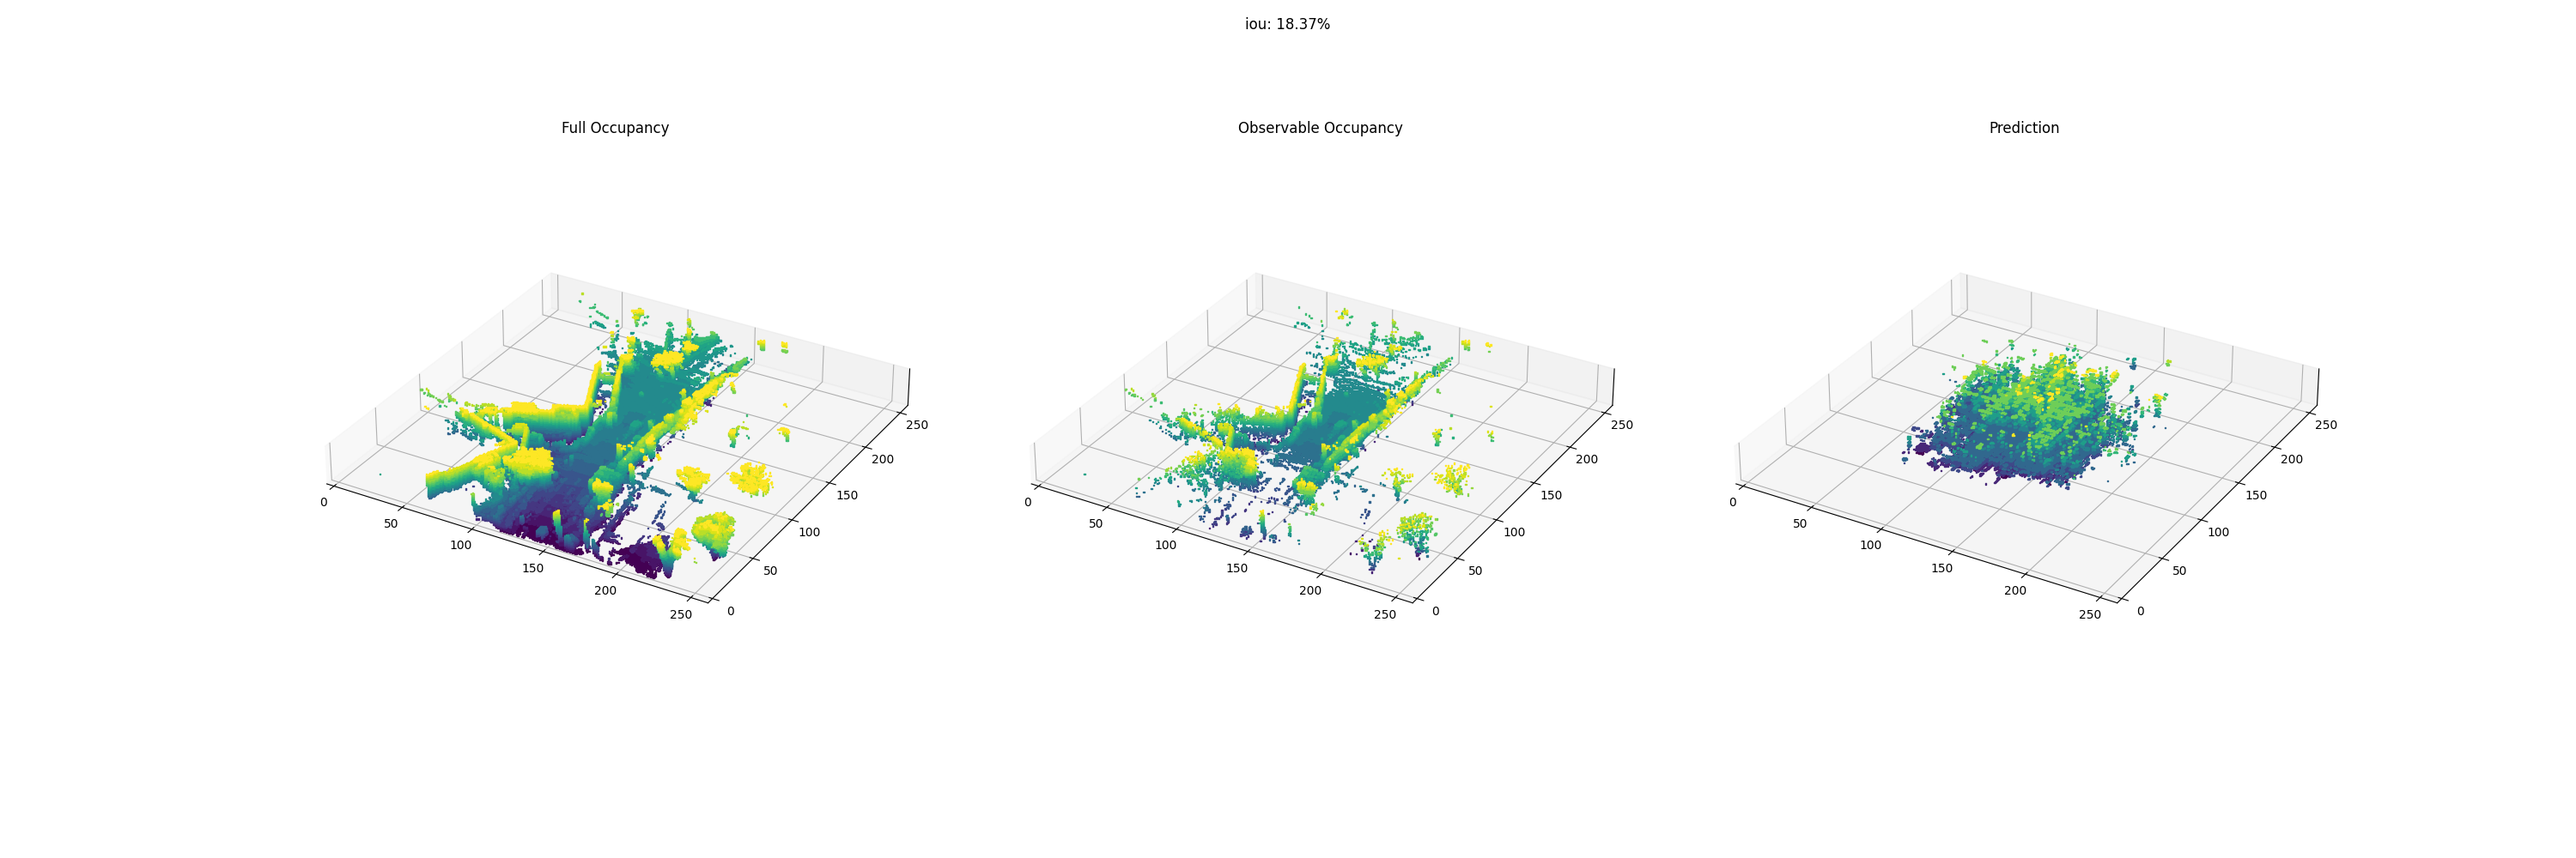
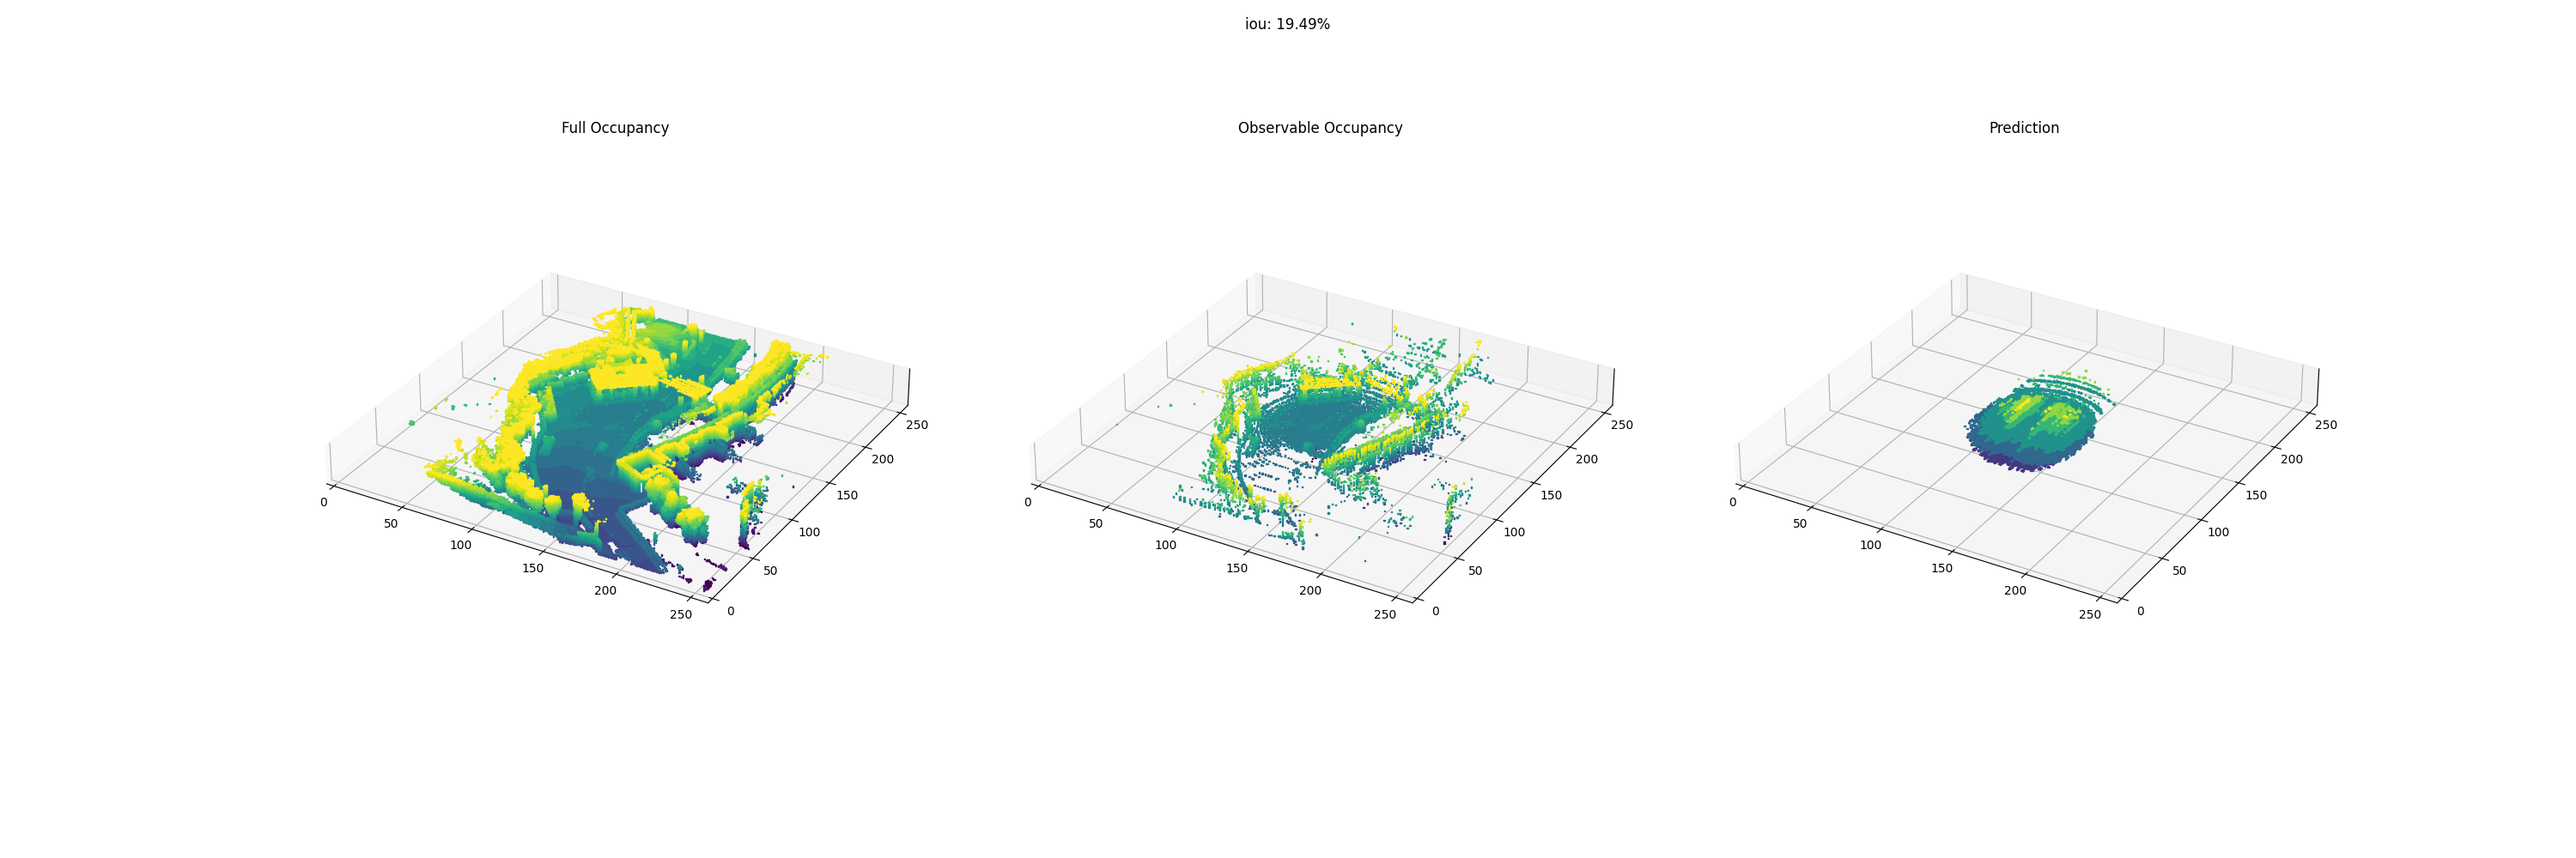
update

Changed region(s): [[0.155, 0.341, 0.341, 0.682], [0.434, 0.372, 0.589, 0.651], [0.744, 0.403, 0.837, 0.589]]

diff --git a/occupancy/pipelines/panoramic2voxel.py b/occupancy/pipelines/panoramic2voxel.py
@@ -339,11 +339,11 @@ class MultiViewImageToVoxelPipeline(nn.Module):
             self.image_autoencoderkl.config.latent_channels, 256, 1024, 2, 6, 128
         )
         self.plane2polar = UnetPlane2Polar(
-            4, self.voxel_encoder_latent_dim * 2, self.plane2polar_depth_channels, 128, 3, 1024, 6
+            4, self.voxel_encoder_latent_dim * 2, self.plane2polar_depth_channels, 128, 3, 1024, 8
         )
         self.decoder = UnetConditionalAttention3d(
             self.voxel_encoder_latent_dim * 2,
-            self.voxel_encoder_latent_dim * 2,
+            self.voxel_encoder_latent_dim,
             1024,
             1024,
             256,
@@ -377,7 +377,7 @@ class MultiViewImageToVoxelPipeline(nn.Module):
     def prepare_multiview(self, images, voxel_shape) -> Tensor:
         batch_size = images.shape[0]
         num_images = images.shape[1]
-        images = images[:, torch.randperm(num_images)]
+        # images = images[:, torch.randperm(num_images)]
         with torch.no_grad():
             multiview_sample = self.prepare_image(images.flatten(0, 1))
         multiview_features = self.image_encoder(multiview_sample)
@@ -450,21 +450,22 @@ class MultiViewImageToVoxelPipeline(nn.Module):
                 input.images.data = self.image_augmentation(input.images.data.float()).type_as(input.images.data)
 
         multiview_voxel, multiview_sample = self.prepare_multiview(input.images, (32, 32, 4))
-        model_dist = self.decoder(multiview_voxel, multiview_sample)
-        model_dist = GaussianDistribution.from_latent(model_dist, latent_scale=self.voxel_autoencoderkl.latent_scale)
-        model_output = model_dist.sample()
+        model_output = self.decoder(multiview_voxel, multiview_sample)
+        # model_dist = GaussianDistribution.from_latent(model_dist, latent_scale=self.voxel_autoencoderkl.latent_scale)
+        # model_output = model_dist.sample()
 
         voxel = input.voxel
         pred_voxel = self.voxel_autoencoderkl.decode(model_output)
+        # with torch.no_grad():
+        #    gt_voxel_dist = self.voxel_autoencoderkl.encode(voxel)
         # with torch.no_grad():
         # pred_voxel = self.decode_latent_sample(model_output, input.voxel.shape[-3:])
         # loss, pos_weight = self.random_sample_voxel(model_output, voxel)
         pos_weight = self.influence_radial_weight(voxel)
         loss = (
             F.binary_cross_entropy_with_logits(pred_voxel, voxel, pos_weight=pos_weight)
-            + 0.001 * model_dist.kl_loss.mean()
+            # + 0.001 * model_dist.kl_div(gt_voxel_dist).mean()
         )
-
         return MultiViewImageToVoxelPipelineOutput(
             pred_voxel,
             voxel,

diff --git a/occupancy/pipelines/train.py b/occupancy/pipelines/train.py
@@ -125,8 +125,8 @@ def train(
             model.parameters(),
             AdamW,
             lr=args.lr,
-            weight_decay=1e-5,
-            betas=(0.9, 0.96),
+            weight_decay=args.weight_decay,
+            betas=(0.9, 0.996),
             eps=1e-8,
             parameters_as_bucket_view=True,
         )
@@ -134,8 +134,8 @@ def train(
         optimizer = AdamW(
             model.parameters(),
             lr=args.lr,
-            weight_decay=1e-5,
-            betas=(0.9, 0.96),
+            weight_decay=args.weight_decay,
+            betas=(0.9, 0.996),
             eps=1e-8,
         )
     total_steps = 2 * len(dl) // args.grad_accum
@@ -223,6 +223,7 @@ if __name__ == "__main__":
     parser.add_argument("--weight-decay", type=float, default=1e-5)
     parser.add_argument("--total-epochs", type=int, default=100)
     parser.add_argument("--num-classes", type=int, default=1)
+
     args = parser.parse_args()
     match args.dtype:
         case "bf16":

diff --git a/occupancy/datasets/nuscenes.py b/occupancy/datasets/nuscenes.py
@@ -184,7 +184,7 @@ class NuScenesPointCloud:
         points_[0] /= 20
         points_[1] /= 256
         points_[2] /= 256
-        obs_ind = ops.filter_observable(points_[[2, 1, 0]], 0.5)
+        obs_ind = ops.filter_observable(points_[[2, 1, 0]], 1)
         obs_points = points[:, obs_ind]
 
         obs_voxel = torch.zeros(512, 512, 64, dtype=torch.long)
